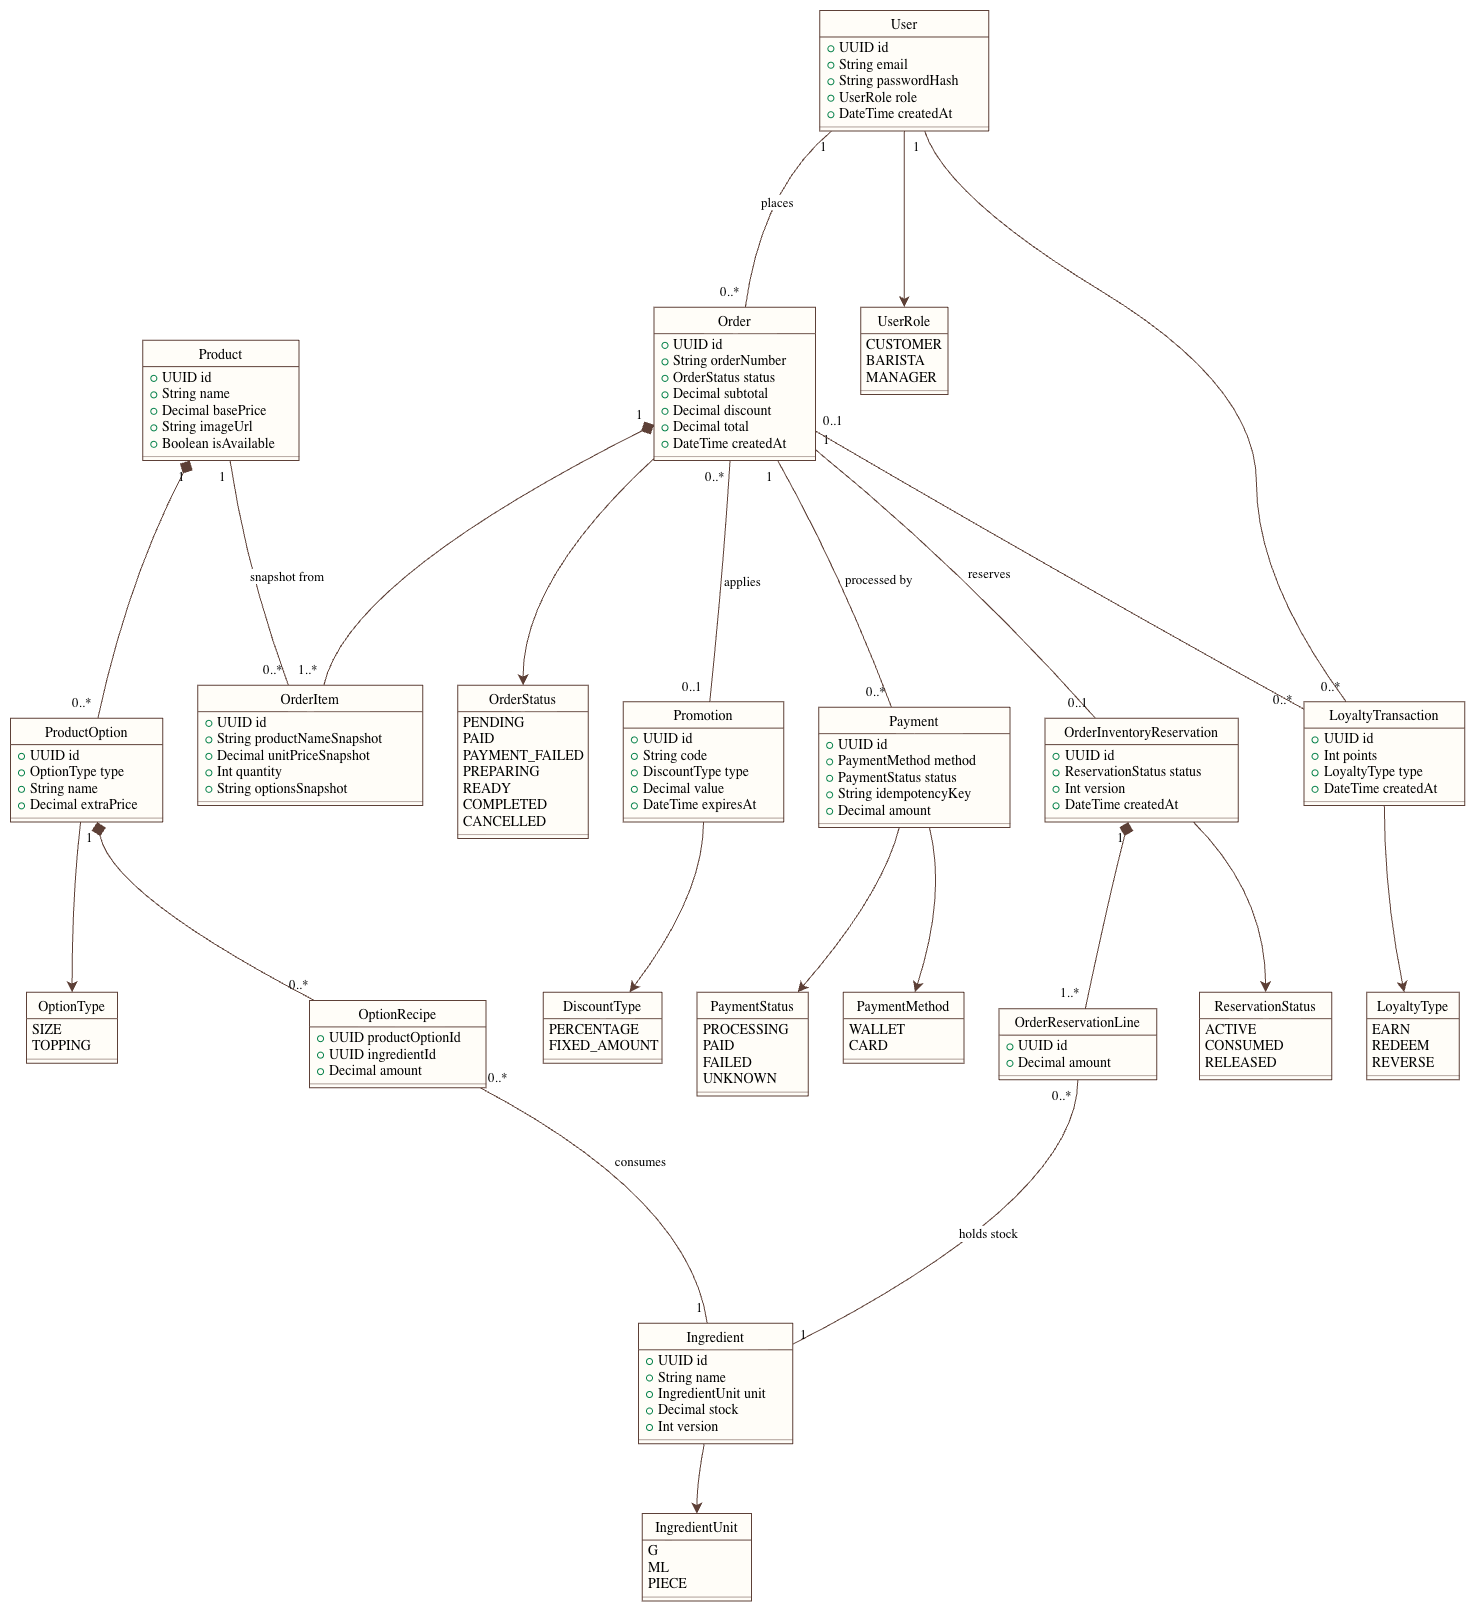
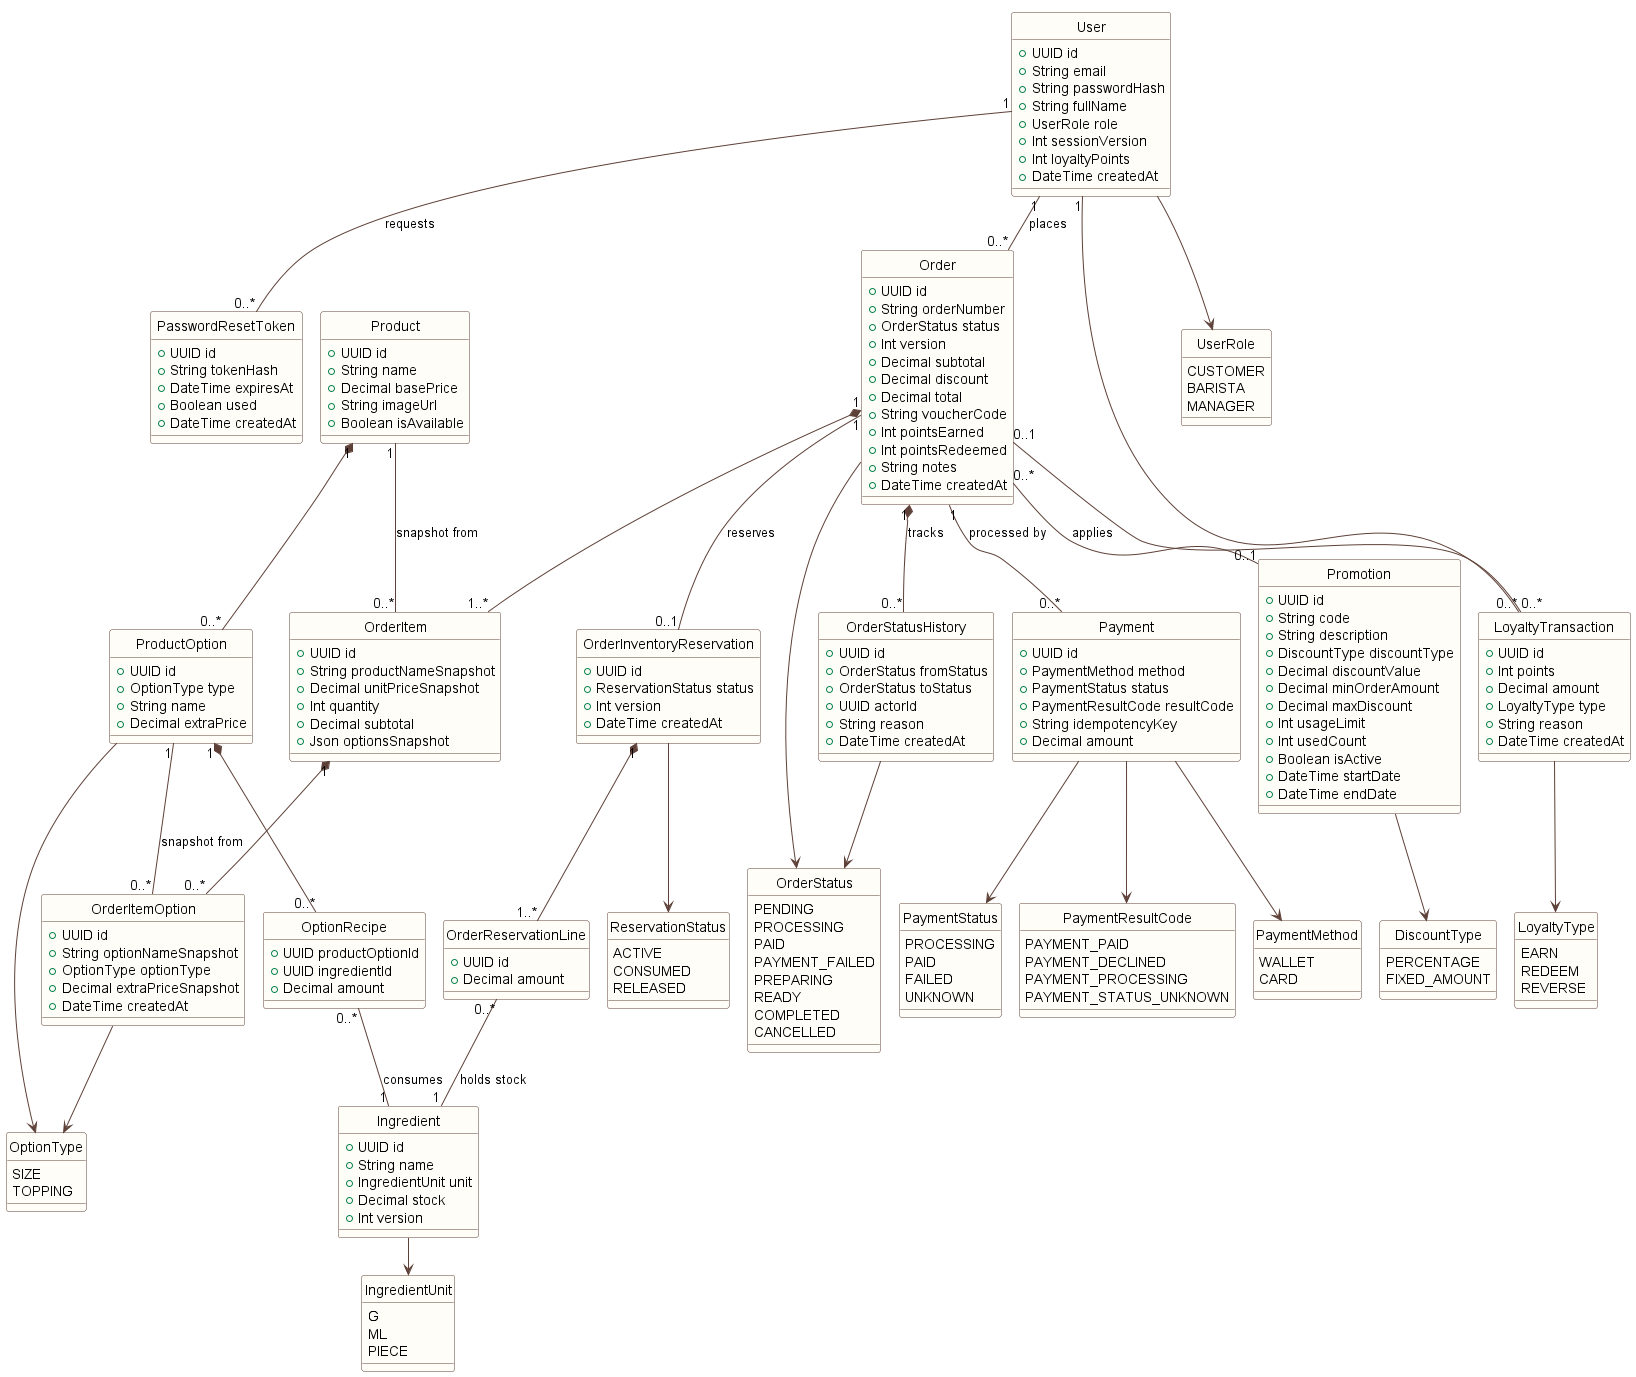
refactor(loyalty): rename LoyaltyLog to LoyaltyTransaction and update diagrams

diff --git a/apps/api/test/orders-loyalty-integration.e2e-spec.ts b/apps/api/test/orders-loyalty-integration.e2e-spec.ts
@@ -106,7 +106,7 @@ describe('Orders Loyalty & Transaction PostgreSQL Integration (Task 5.1 - Sectio
     }
 
     if (userIds.length > 0) {
-      await prisma.loyaltyLog.deleteMany({ where: { userId: { in: userIds } } });
+      await prisma.loyaltyTransaction.deleteMany({ where: { userId: { in: userIds } } });
       await prisma.user.deleteMany({ where: { id: { in: userIds } } });
     }
 
@@ -259,7 +259,7 @@ describe('Orders Loyalty & Transaction PostgreSQL Integration (Task 5.1 - Sectio
   // ============================================================================
   // IV. KỊCH BẢN A: REDEEM HỢP LỆ
   // ============================================================================
-  it('Kịch bản A: Redeem điểm hợp lệ trừ đúng loyaltyPoints, tạo đúng LoyaltyLog REDEEM và bảo toàn tài chính', async () => {
+  it('Kịch bản A: Redeem điểm hợp lệ trừ đúng loyaltyPoints, tạo đúng LoyaltyTransaction REDEEM và bảo toàn tài chính', async () => {
     const { user, token } = await createTestCustomer(100); // Có 100 điểm
     const { product, option, ingredient } = await createTestProductFixture(1000);
 
@@ -290,8 +290,8 @@ describe('Orders Loyalty & Transaction PostgreSQL Integration (Task 5.1 - Sectio
     const updatedUser = await prisma.user.findUniqueOrThrow({ where: { id: user.id } });
     expect(updatedUser.loyaltyPoints).toBe(80);
 
-    // 3. Kiểm tra đúng 1 LoyaltyLog REDEEM
-    const logs = await prisma.loyaltyLog.findMany({ where: { userId: user.id } });
+    // 3. Kiểm tra đúng 1 LoyaltyTransaction REDEEM
+    const logs = await prisma.loyaltyTransaction.findMany({ where: { userId: user.id } });
     expect(logs.length).toBe(1);
     expect(logs[0].points).toBe(-20);
 
@@ -323,7 +323,7 @@ describe('Orders Loyalty & Transaction PostgreSQL Integration (Task 5.1 - Sectio
     // Xác minh DB không bị thay đổi
     const userDb = await prisma.user.findUniqueOrThrow({ where: { id: user.id } });
     expect(userDb.loyaltyPoints).toBe(15);
-    const logs = await prisma.loyaltyLog.findMany({ where: { userId: user.id } });
+    const logs = await prisma.loyaltyTransaction.findMany({ where: { userId: user.id } });
     expect(logs.length).toBe(0);
     const ingDb = await prisma.ingredient.findUniqueOrThrow({ where: { id: ingredient.id } });
     expect(ingDb.stock.toNumber()).toBe(1000);
@@ -332,7 +332,7 @@ describe('Orders Loyalty & Transaction PostgreSQL Integration (Task 5.1 - Sectio
   // ============================================================================
   // VI. KỊCH BẢN C: ROLLBACK SAU KHI ĐÃ TRỪ ĐIỂM
   // ============================================================================
-  it('Kịch bản C: Thiếu tồn kho nguyên liệu gây rollback toàn bộ, điểm tích lũy và LoyaltyLog được phục hồi nguyên vẹn', async () => {
+  it('Kịch bản C: Thiếu tồn kho nguyên liệu gây rollback toàn bộ, điểm tích lũy và LoyaltyTransaction được phục hồi nguyên vẹn', async () => {
     const { user, token } = await createTestCustomer(100);
     const { product, option, ingredient } = await createTestProductFixture(10); // Chỉ có 10g, trong khi cần 20g
 
@@ -351,8 +351,8 @@ describe('Orders Loyalty & Transaction PostgreSQL Integration (Task 5.1 - Sectio
     const userDb = await prisma.user.findUniqueOrThrow({ where: { id: user.id } });
     expect(userDb.loyaltyPoints).toBe(100);
 
-    // Không có LoyaltyLog
-    const logs = await prisma.loyaltyLog.findMany({ where: { userId: user.id } });
+    // Không có LoyaltyTransaction
+    const logs = await prisma.loyaltyTransaction.findMany({ where: { userId: user.id } });
     expect(logs.length).toBe(0);
 
     // Không có Order hoặc Reservation mồ côi
@@ -407,8 +407,8 @@ describe('Orders Loyalty & Transaction PostgreSQL Integration (Task 5.1 - Sectio
     const userDb = await prisma.user.findUniqueOrThrow({ where: { id: user.id } });
     expect(userDb.loyaltyPoints).toBe(20);
 
-    // Chỉ có đúng 1 dòng LoyaltyLog
-    const logs = await prisma.loyaltyLog.findMany({ where: { userId: user.id } });
+    // Chỉ có đúng 1 dòng LoyaltyTransaction
+    const logs = await prisma.loyaltyTransaction.findMany({ where: { userId: user.id } });
     expect(logs.length).toBe(1);
     expect(logs[0].points).toBe(-80);
   });
@@ -515,7 +515,7 @@ describe('Orders Loyalty & Transaction PostgreSQL Integration (Task 5.1 - Sectio
     expect(orderDb.pointsEarned).toBe(4);
 
     // Có đúng 1 log EARN
-    const logs = await prisma.loyaltyLog.findMany({ where: { userId: user.id } });
+    const logs = await prisma.loyaltyTransaction.findMany({ where: { userId: user.id } });
     expect(logs.length).toBe(1);
     expect(logs[0].points).toBe(4);
 
@@ -530,7 +530,7 @@ describe('Orders Loyalty & Transaction PostgreSQL Integration (Task 5.1 - Sectio
     expect(userDb2.loyaltyPoints).toBe(54);
 
     // Vẫn chỉ có 1 log duy nhất
-    const logs2 = await prisma.loyaltyLog.findMany({ where: { userId: user.id } });
+    const logs2 = await prisma.loyaltyTransaction.findMany({ where: { userId: user.id } });
     expect(logs2.length).toBe(1);
   });
 
@@ -567,7 +567,7 @@ describe('Orders Loyalty & Transaction PostgreSQL Integration (Task 5.1 - Sectio
     const userDb = await prisma.user.findUniqueOrThrow({ where: { id: user.id } });
     expect(userDb.loyaltyPoints).toBe(14);
 
-    const logs = await prisma.loyaltyLog.findMany({ where: { userId: user.id } });
+    const logs = await prisma.loyaltyTransaction.findMany({ where: { userId: user.id } });
     expect(logs.length).toBe(1);
     expect(logs[0].points).toBe(4);
   });
@@ -600,7 +600,7 @@ describe('Orders Loyalty & Transaction PostgreSQL Integration (Task 5.1 - Sectio
     expect(userDb.loyaltyPoints).toBe(100);
 
     // 2. Có đúng 2 log: 1 REDEEM (-30) và 1 REFUND (+30)
-    const logs = await prisma.loyaltyLog.findMany({
+    const logs = await prisma.loyaltyTransaction.findMany({
       where: { userId: user.id },
       orderBy: { createdAt: 'asc' },
     });
@@ -620,7 +620,7 @@ describe('Orders Loyalty & Transaction PostgreSQL Integration (Task 5.1 - Sectio
     expect(userDb2.loyaltyPoints).toBe(100);
 
     // Vẫn chỉ có 2 log
-    const logs2 = await prisma.loyaltyLog.findMany({ where: { userId: user.id } });
+    const logs2 = await prisma.loyaltyTransaction.findMany({ where: { userId: user.id } });
     expect(logs2.length).toBe(2);
 
     // Tồn kho không bị cộng thêm lần 2
@@ -658,7 +658,7 @@ describe('Orders Loyalty & Transaction PostgreSQL Integration (Task 5.1 - Sectio
     expect(userDb.loyaltyPoints).toBe(100);
 
     // Đúng 1 log refund
-    const refundLogs = await prisma.loyaltyLog.findMany({
+    const refundLogs = await prisma.loyaltyTransaction.findMany({
       where: { userId: user.id, points: 25 },
     });
     expect(refundLogs.length).toBe(1);
@@ -696,7 +696,7 @@ describe('Orders Loyalty & Transaction PostgreSQL Integration (Task 5.1 - Sectio
       'stock',
       'passwordHash',
       'sessionVersion',
-      'loyaltyLog',
+      'loyaltyTransaction',
     ];
 
     // 1. GET /api/orders/:id của chính chủ

diff --git a/apps/api/src/loyalty/loyalty.service.ts b/apps/api/src/loyalty/loyalty.service.ts
@@ -28,7 +28,7 @@ export class LoyaltyService {
       throw new NotFoundException('Không tìm thấy người dùng');
     }
 
-    const history = await this.prisma.loyaltyLog.findMany({
+    const history = await this.prisma.loyaltyTransaction.findMany({
       where: { userId },
       orderBy: { createdAt: 'desc' },
     });
@@ -141,7 +141,7 @@ export class LoyaltyService {
     }
 
     try {
-      const log = await db.loyaltyLog.create({
+      const log = await db.loyaltyTransaction.create({
         data: {
           orderId,
           userId,
@@ -165,7 +165,7 @@ export class LoyaltyService {
         error.code === 'P2002'
       ) {
         this.logger.warn(`[Idempotency Hit] Order ${orderId} đã được cộng điểm trước đó. Bỏ qua.`);
-        return db.loyaltyLog.findUnique({
+        return db.loyaltyTransaction.findUnique({
           where: {
             orderId_type: {
               orderId,
@@ -193,7 +193,7 @@ export class LoyaltyService {
         data: { loyaltyPoints: { increment: dto.points } },
       });
 
-      const log = await tx.loyaltyLog.create({
+      const log = await tx.loyaltyTransaction.create({
         data: {
           userId: dto.userId,
           orderId: dto.orderId || null,
@@ -230,7 +230,7 @@ export class LoyaltyService {
         data: { loyaltyPoints: { decrement: dto.points } },
       });
 
-      const log = await tx.loyaltyLog.create({
+      const log = await tx.loyaltyTransaction.create({
         data: {
           userId: dto.userId,
           points: dto.points,

diff --git a/apps/api/src/orders/orders.service.spec.ts b/apps/api/src/orders/orders.service.spec.ts
@@ -948,7 +948,7 @@ describe('OrdersService & Pure Helpers Unit Tests (Task 5.1 - Lê Quang Điệp)
         loyaltyPoints: userLoyaltyPoints,
       });
       txMock.user.updateMany = jest.fn().mockResolvedValue({ count: 1 });
-      txMock.loyaltyLog = { create: jest.fn().mockResolvedValue({ id: 'log-1' }) };
+      txMock.loyaltyTransaction = { create: jest.fn().mockResolvedValue({ id: 'log-1' }) };
 
       txMock.product.findMany.mockResolvedValue([
         { id: prodId1, name: 'Cà phê đen', basePrice: new Prisma.Decimal(30000), isAvailable: true },
@@ -989,7 +989,7 @@ describe('OrdersService & Pure Helpers Unit Tests (Task 5.1 - Lê Quang Điệp)
       txMock.orderStatusHistory.create.mockResolvedValue({ id: 'hist-1' });
     }
 
-    it('45. Tạo đơn với pointsToRedeem hợp lệ: thực hiện atomic updateMany và ghi loyaltyLog', async () => {
+    it('45. Tạo đơn với pointsToRedeem hợp lệ: thực hiện atomic updateMany và ghi loyaltyTransaction', async () => {
       setupBaseMocks(100);
       const dto: CreateOrderDto = {
         items: [{ productId: prodId1, quantity: 1, selectedOptions: [sizeMId] }],
@@ -1007,7 +1007,7 @@ describe('OrdersService & Pure Helpers Unit Tests (Task 5.1 - Lê Quang Điệp)
           loyaltyPoints: { decrement: 10 },
         },
       });
-      expect(txMock.loyaltyLog.create).toHaveBeenCalledWith({
+      expect(txMock.loyaltyTransaction.create).toHaveBeenCalledWith({
         data: expect.objectContaining({
           userId: mockUserId,
           points: -10,

diff --git a/apps/api/src/orders/orders.service.ts b/apps/api/src/orders/orders.service.ts
@@ -595,7 +595,7 @@ export class OrdersService {
             data: { loyaltyPoints: { increment: calculatedPointsEarned } },
           });
 
-          await tx.loyaltyLog.create({
+          await tx.loyaltyTransaction.create({
             data: {
               userId: order.userId,
               points: calculatedPointsEarned,
@@ -688,7 +688,7 @@ export class OrdersService {
           data: { loyaltyPoints: { increment: order.pointsRedeemed } },
         });
 
-        await tx.loyaltyLog.create({
+        await tx.loyaltyTransaction.create({
           data: {
             userId: order.userId,
             points: order.pointsRedeemed,
@@ -782,7 +782,7 @@ export class OrdersService {
             data: { loyaltyPoints: { increment: calculatedPointsEarned } },
           });
 
-          await tx.loyaltyLog.create({
+          await tx.loyaltyTransaction.create({
             data: {
               userId: order.userId,
               points: calculatedPointsEarned,
@@ -992,7 +992,7 @@ export class OrdersService {
           );
         }
 
-        await tx.loyaltyLog.create({
+        await tx.loyaltyTransaction.create({
           data: {
             userId: authenticatedUserId,
             points: -pointsRedeemed,

diff --git a/apps/api/prisma/seed.ts b/apps/api/prisma/seed.ts
@@ -522,12 +522,12 @@ export async function main() {
     },
   });
 
-  // Seed initial LoyaltyLog for demo customer
-  await prisma.loyaltyLog.deleteMany({
+  // Seed initial LoyaltyTransaction for demo customer
+  await prisma.loyaltyTransaction.deleteMany({
     where: { userId: customer.id },
   });
 
-  await prisma.loyaltyLog.create({
+  await prisma.loyaltyTransaction.create({
     data: {
       userId: customer.id,
       points: 100,

diff --git a/apps/api/src/orders/orders.types.ts b/apps/api/src/orders/orders.types.ts
@@ -231,7 +231,7 @@ export function extractAuthenticatedActor(
  * Tuyệt đối không trả về:
  * - reservation, reservation lines
  * - ingredientId, ingredient amounts, stock
- * - version nội bộ, passwordHash, sessionVersion, loyaltyLog
+ * - version nội bộ, passwordHash, sessionVersion, loyaltyTransaction
  */
 export interface CustomerOrderItemOptionResponse {
   id: string;
